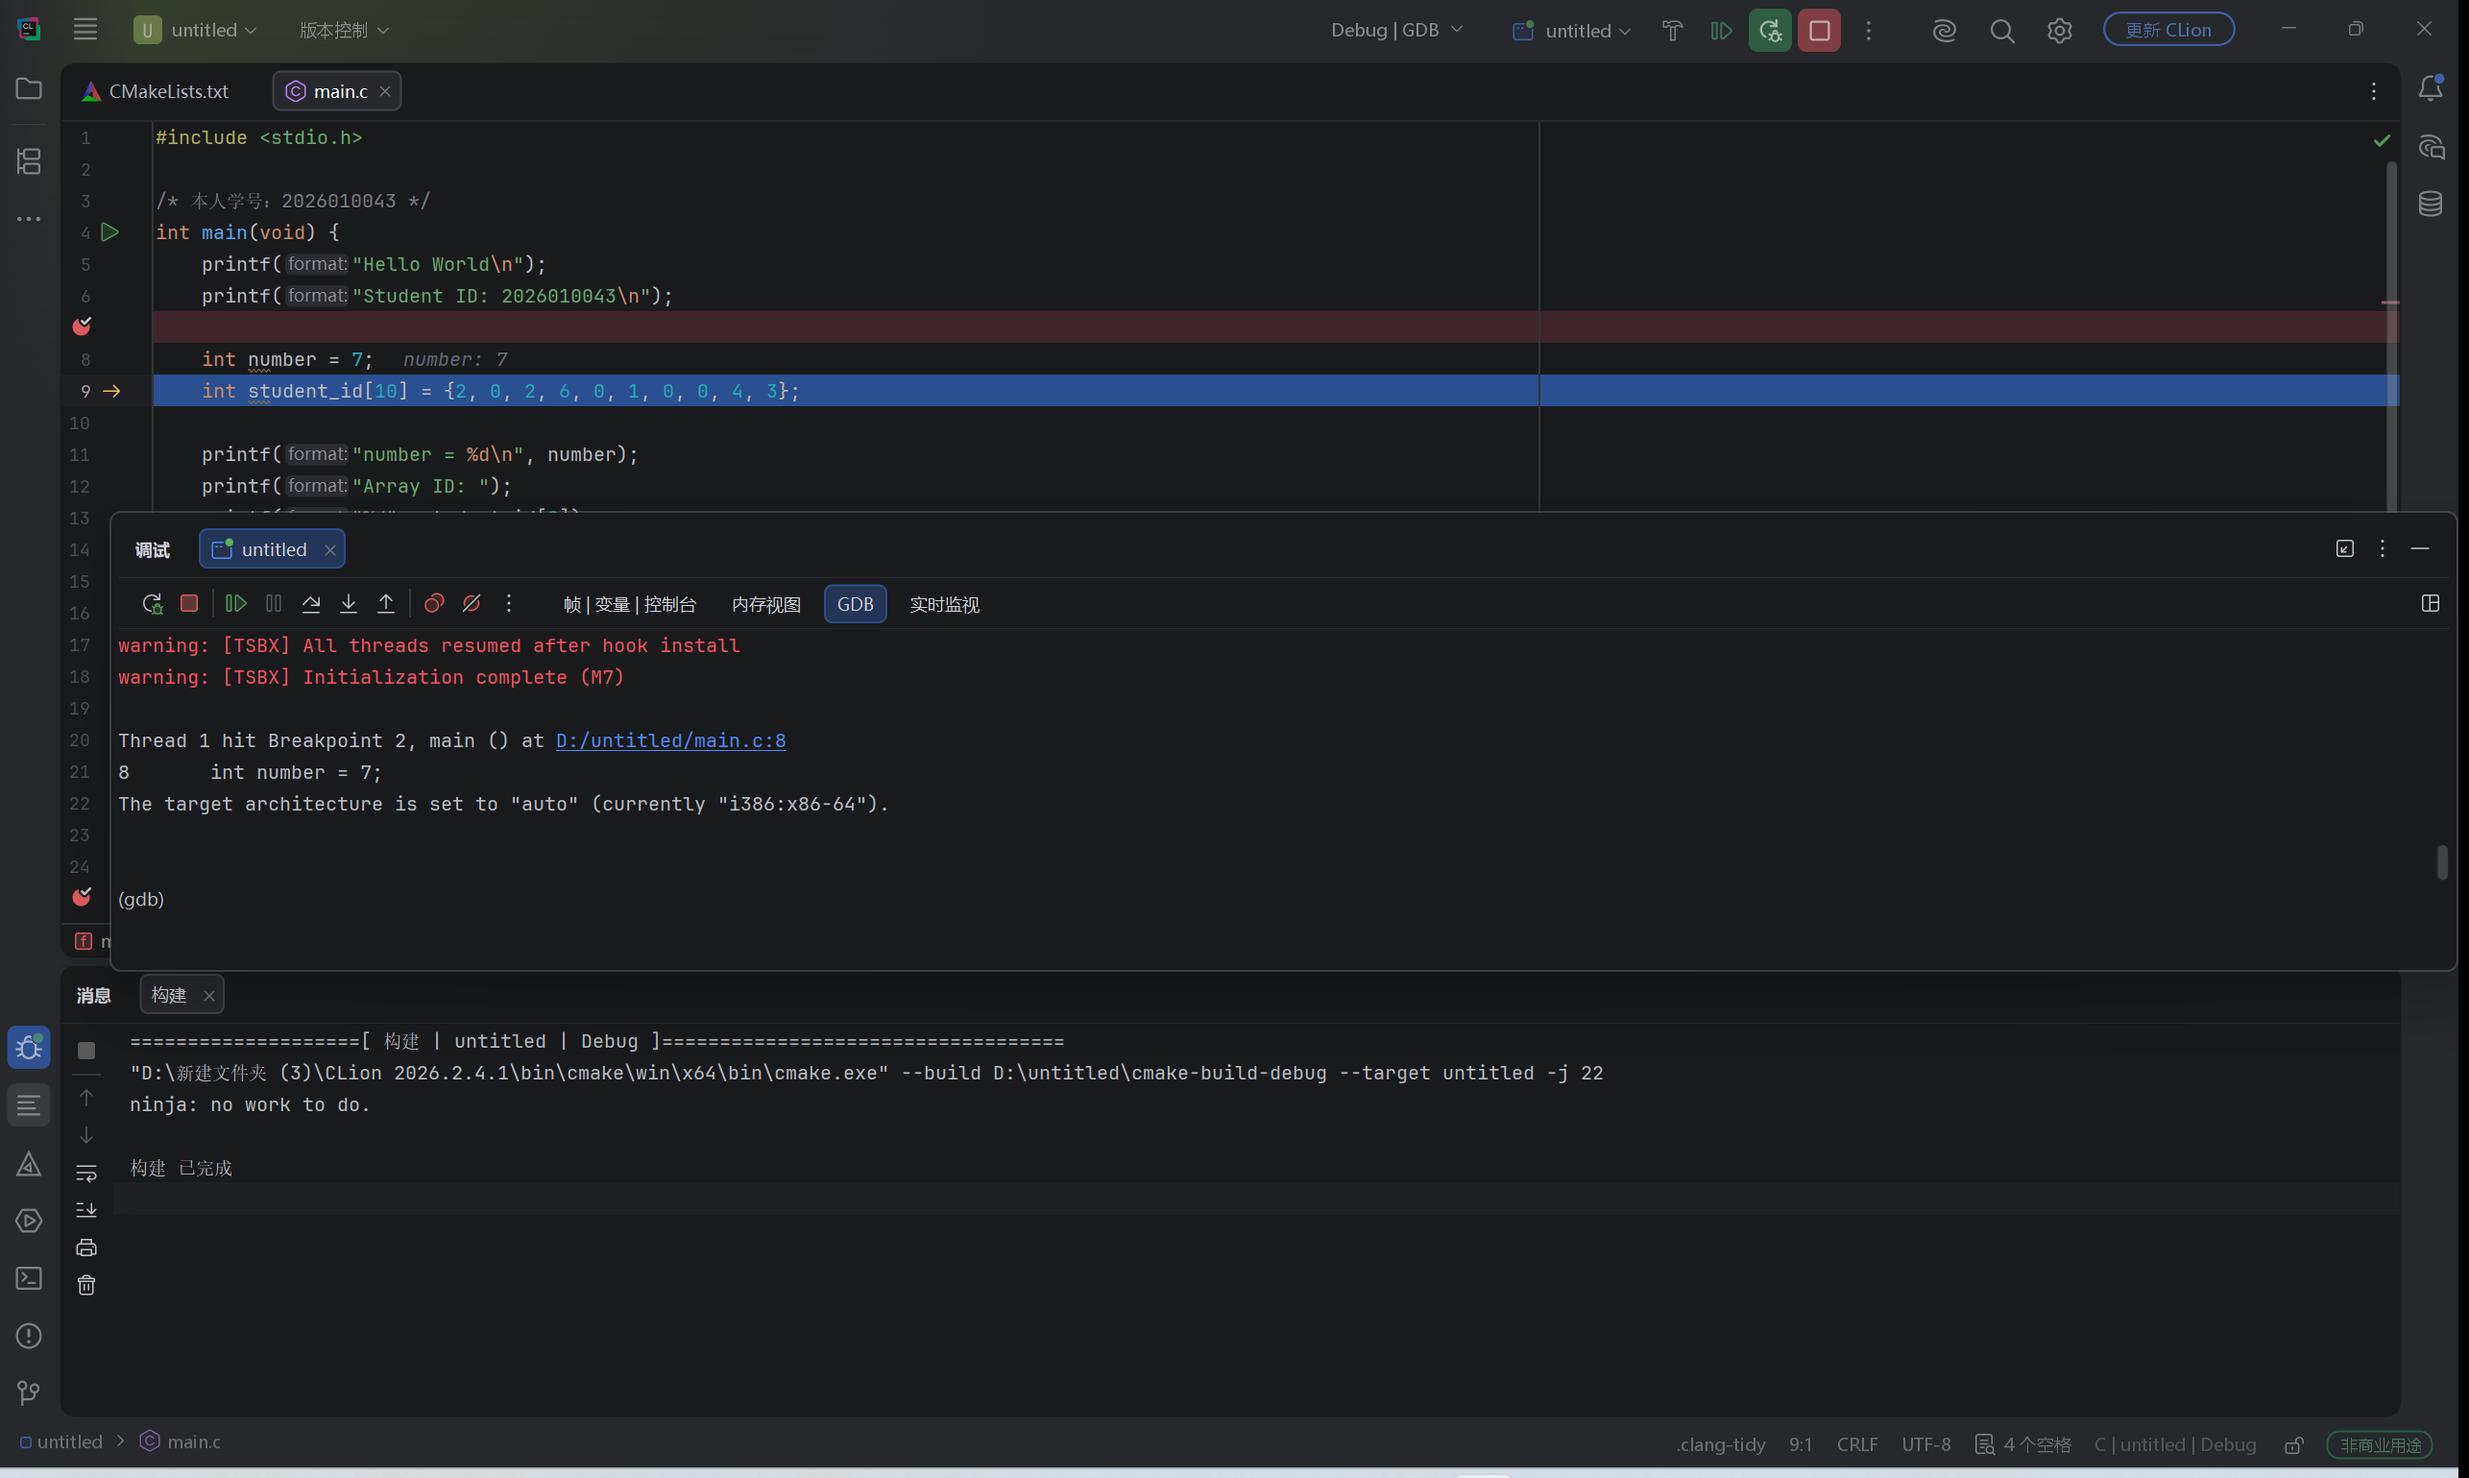
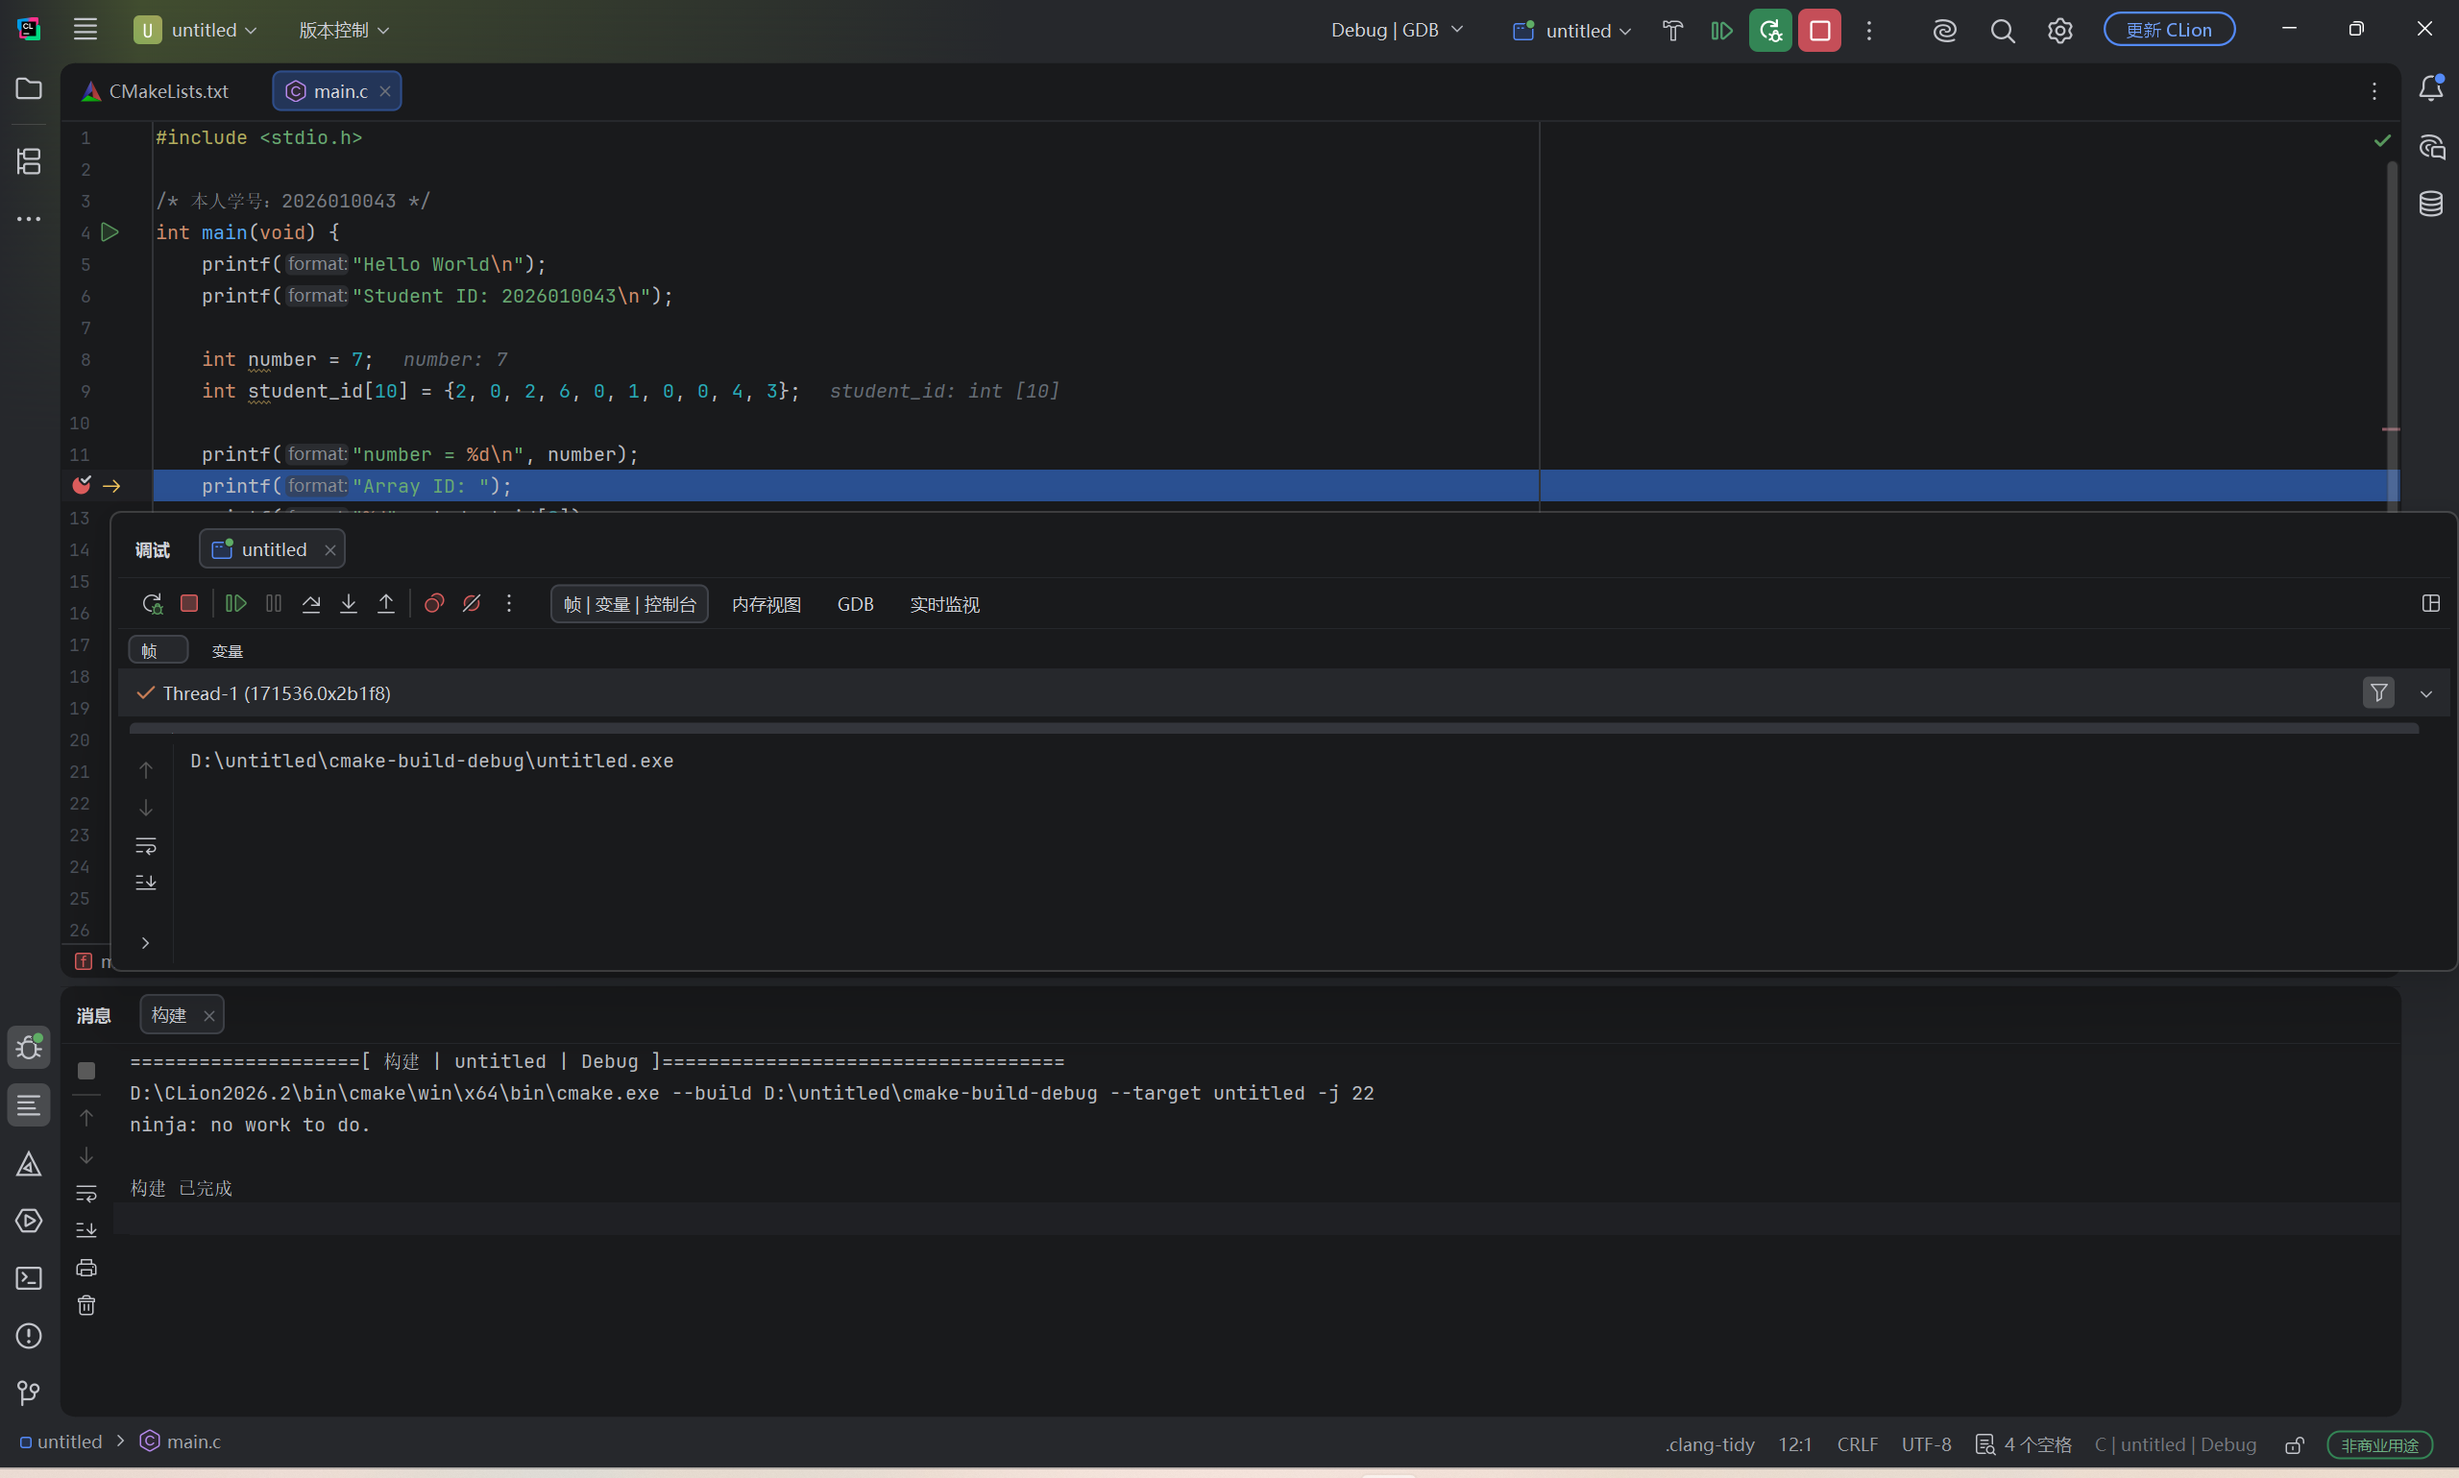
Lab7: 重新截取调试图（暂停在第12行，内联值显示 number=7 与 student_id 十元素），同步更新4.3观察记录

diff --git a/2026010043孔祥西/Lab7/Lab7.md b/2026010043孔祥西/Lab7/Lab7.md
@@ -333,9 +333,9 @@ Array ID: 2026010043
 
 | 观察项目 | 本人记录 |
 | :--- | :--- |
-| 设置断点的源码语句 | `int number = 7;` |
-| 整数变量初始化完成后的高亮语句及变量值 | 高亮位置移到 `int student_id[10] = {2, 0, 2, 6, 0, 1, 0, 0, 4, 3};`，`number` 的值为 `7`，显示在 `int number = 7;` 行尾的内联提示中 |
-| 数组初始化完成后，下标 `0` 和下标 `9` 的值 | `student_id[0] = 2`，`student_id[9] = 3` |
+| 设置断点的源码语句 | `printf("Array ID: ");` |
+| 整数变量初始化完成后的高亮语句及变量值 | 程序暂停在 `printf("Array ID: ");`（截图中该行蓝底高亮，行号左侧有调试器执行指针），此时 `int number = 7;` 已经执行完，该行行尾的内联值提示显示 `number: 7`，即 `number` 的值为 `7` |
+| 数组初始化完成后，下标 `0` 和下标 `9` 的值 | 同一张截图中 `int student_id[10] = {2, 0, 2, 6, 0, 1, 0, 0, 4, 3};` 行尾的内联值提示显示 `student_id: int [10]`，赋值列表即数组的十个元素：下标 `0` 为 `2`，下标 `9` 为 `3` |
 | 对一条 `printf` 执行 Step Over 前后的高亮语句 | 执行前高亮 `printf("Array ID: ");`，执行后高亮 `printf("%d", student_id[0]);` |
 
 记录高亮语句时填写实际源码内容即可，不要求固定行号。数组元素和整数变量值应在对应初始化完成后记录。
